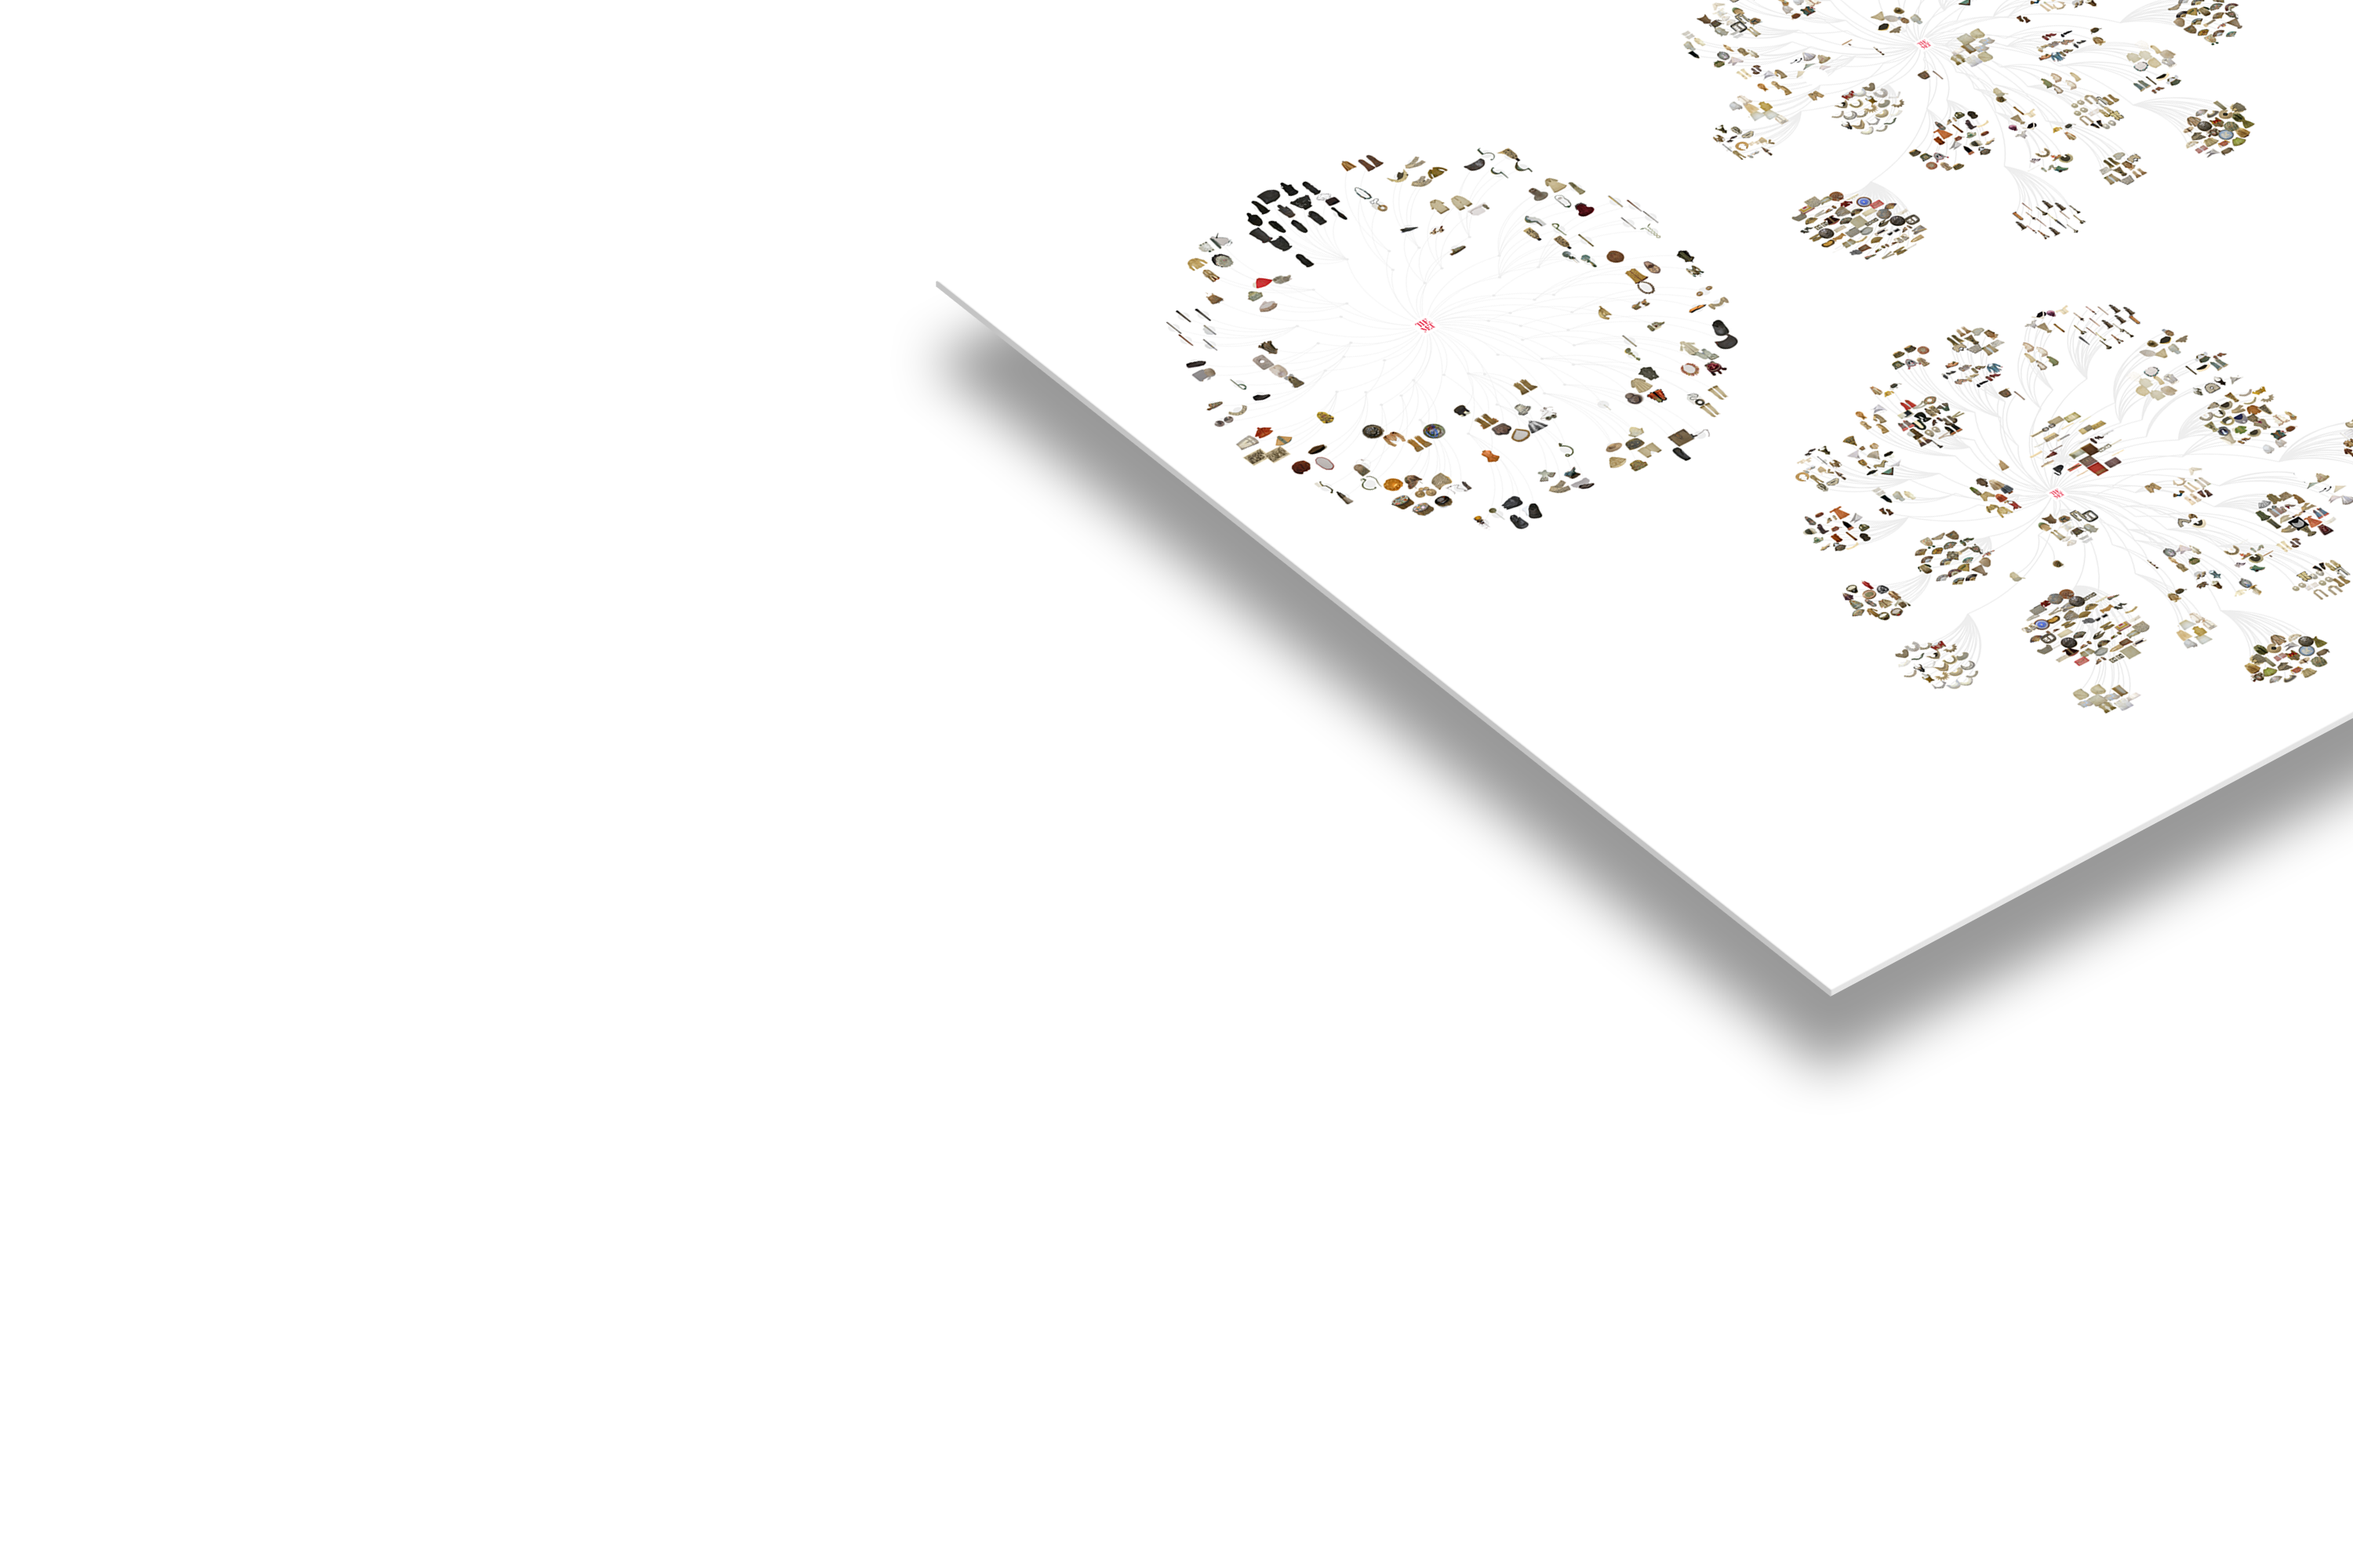
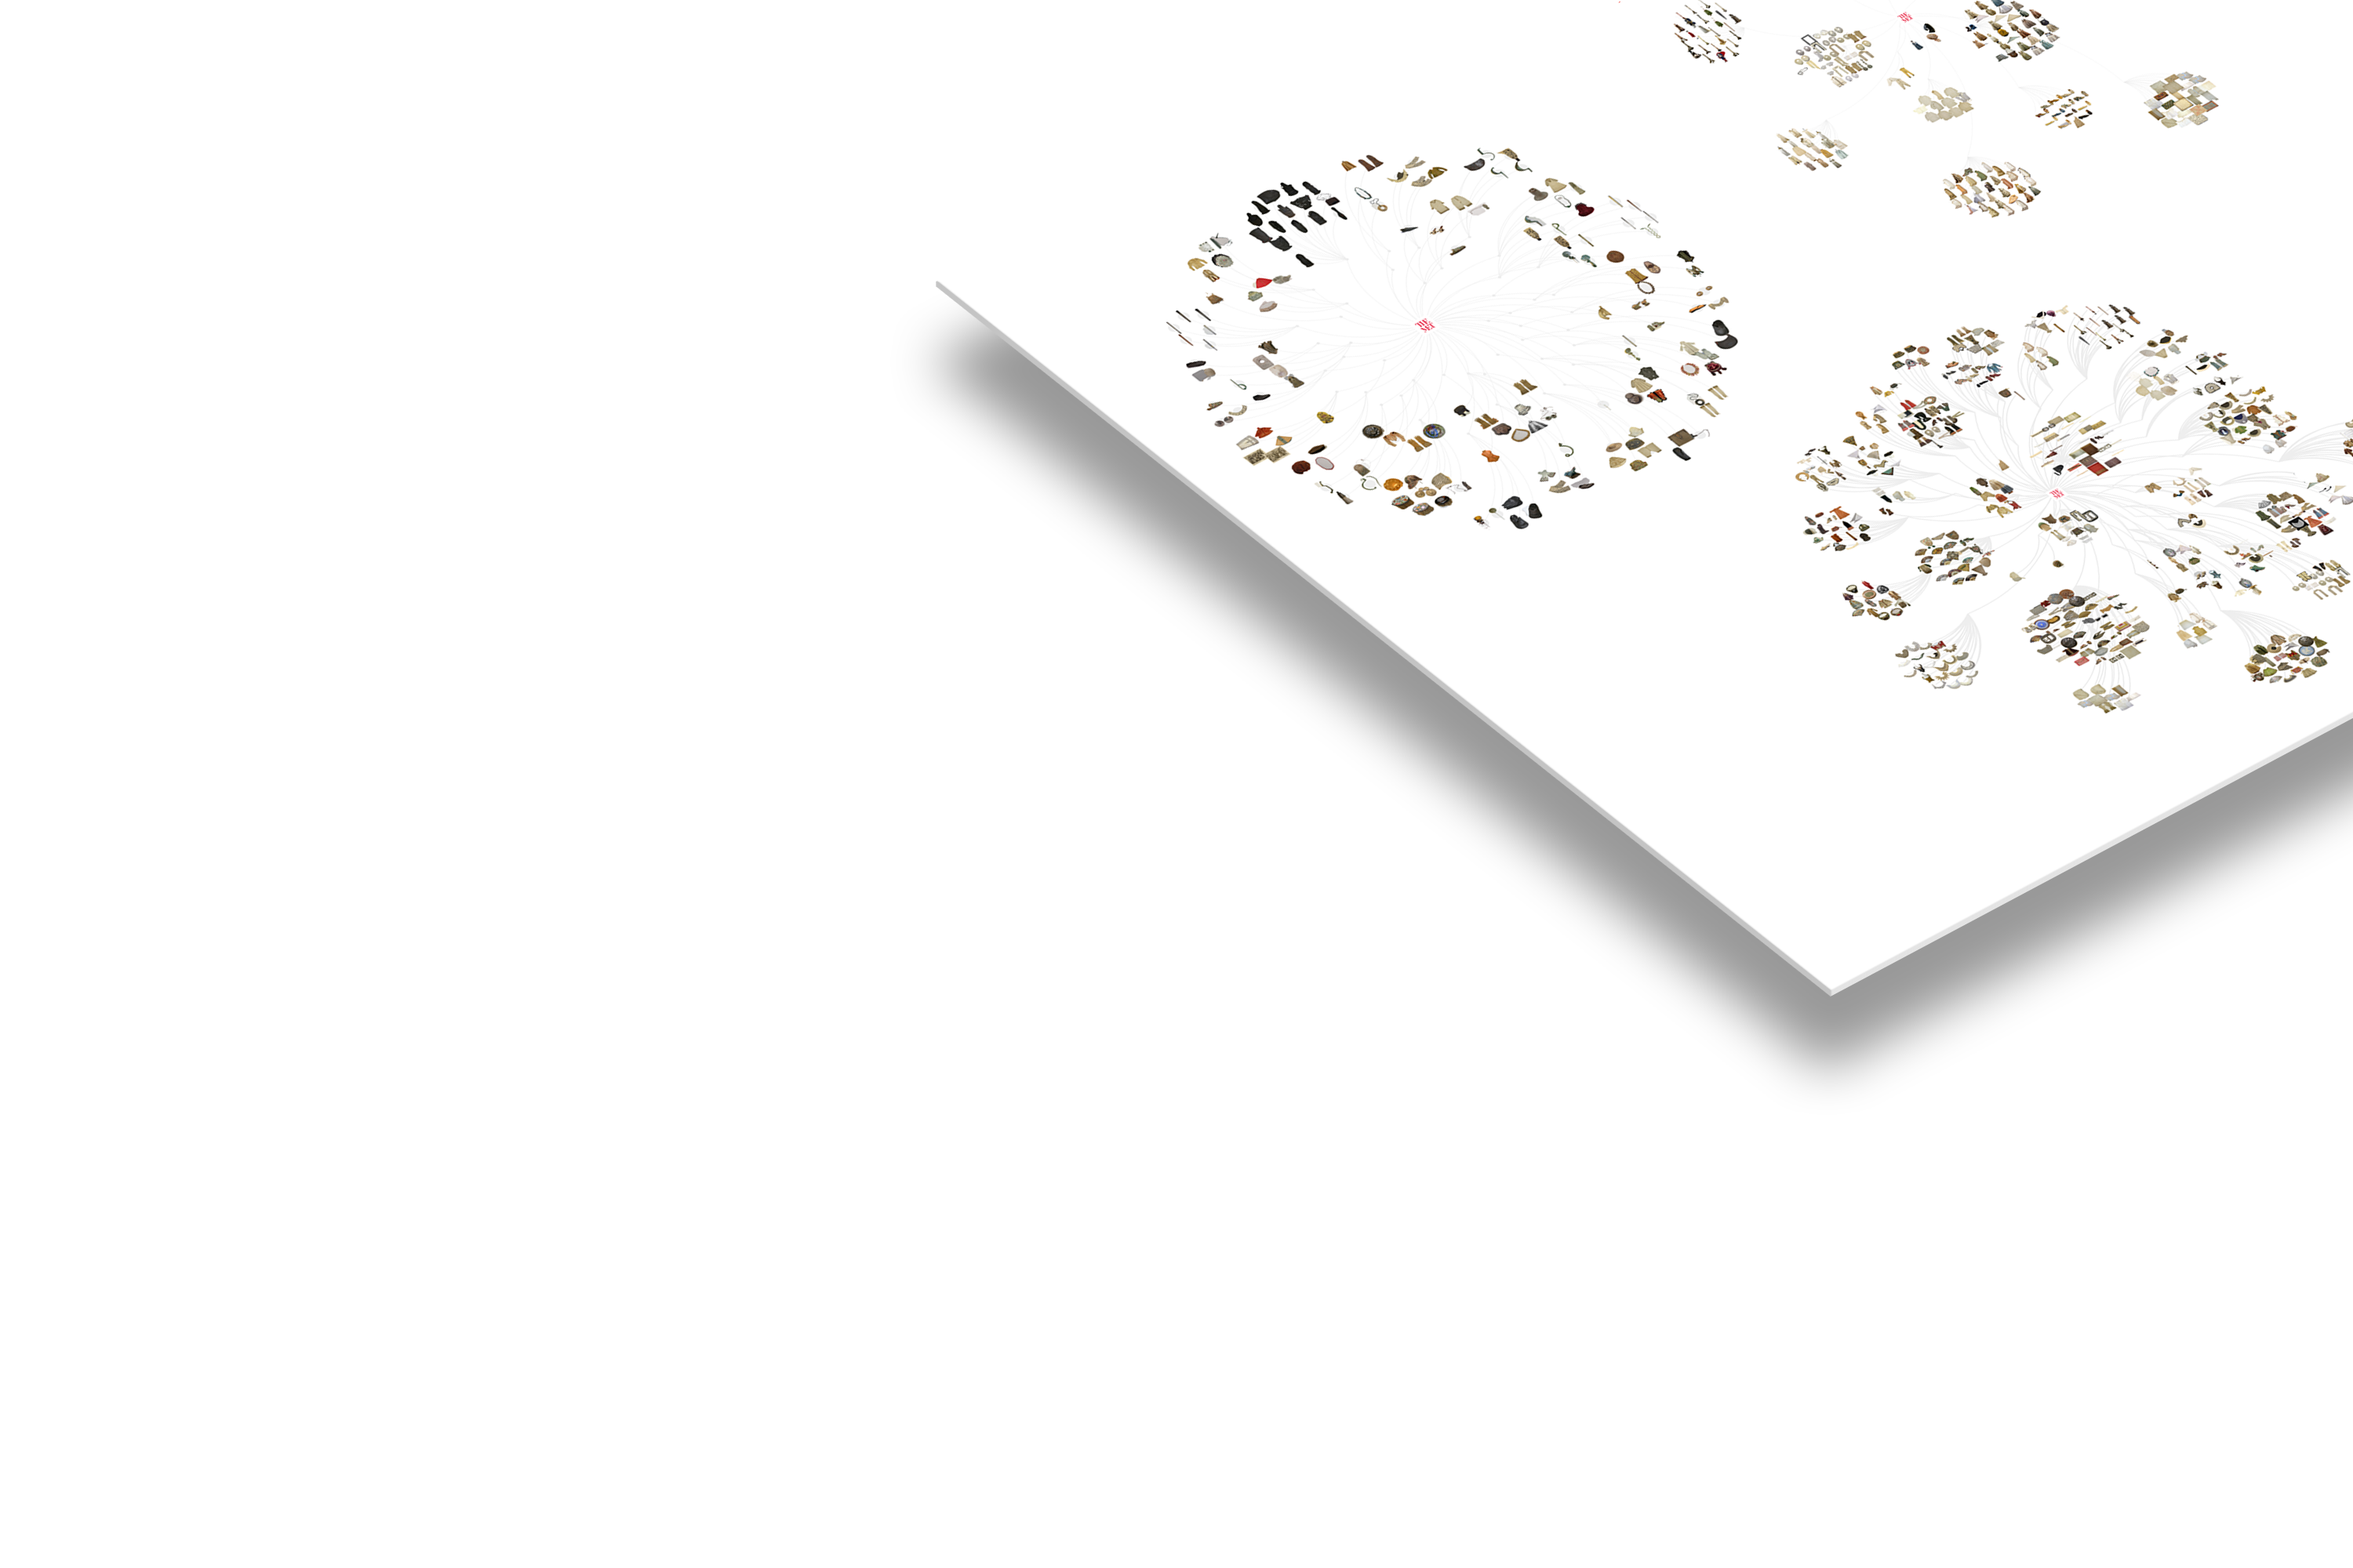
push

Changed region(s): [[0.713, 0.0, 0.961, 0.186]]

diff --git a/js/sketch8.js b/js/sketch8.js
@@ -104,9 +104,9 @@ function update() {
   force.nodes(nodes)
         .links(links)
         .gravity(0.05)
-    .charge(-150)
+    .charge(-250)
     .linkDistance(0.5)
-    .friction(0.5)
+    .friction(0.3)
     .linkStrength(function(l, i) {return 1; })
     .size([w, h])
     .on("tick", tick)
@@ -186,6 +186,7 @@ function update() {
         .attr("class", "nodeimage")
         .attr("xlink:href", function(d) { return d.src; })
         .style("height","100px")
+        .style("width","100px")
         .style("z-index","1")
         .attr("x", x_browser -55)
         .attr("y", y_browser -70)
